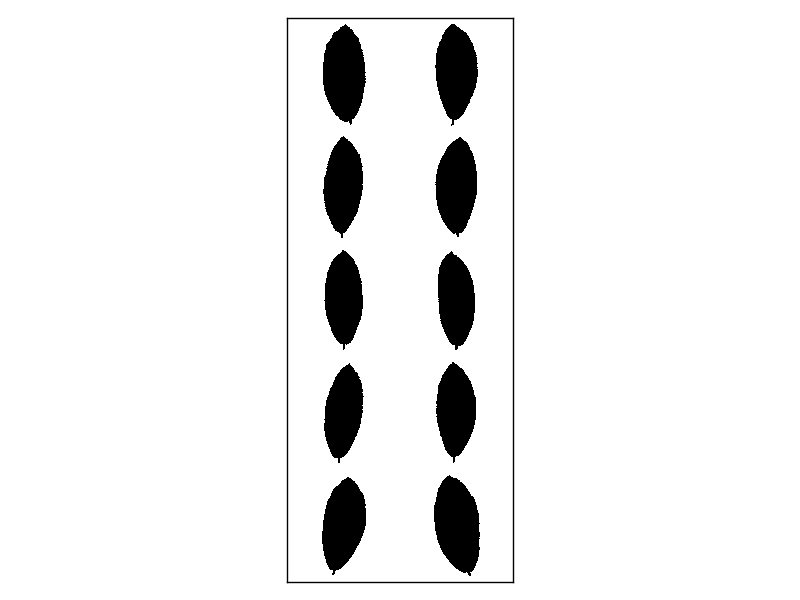
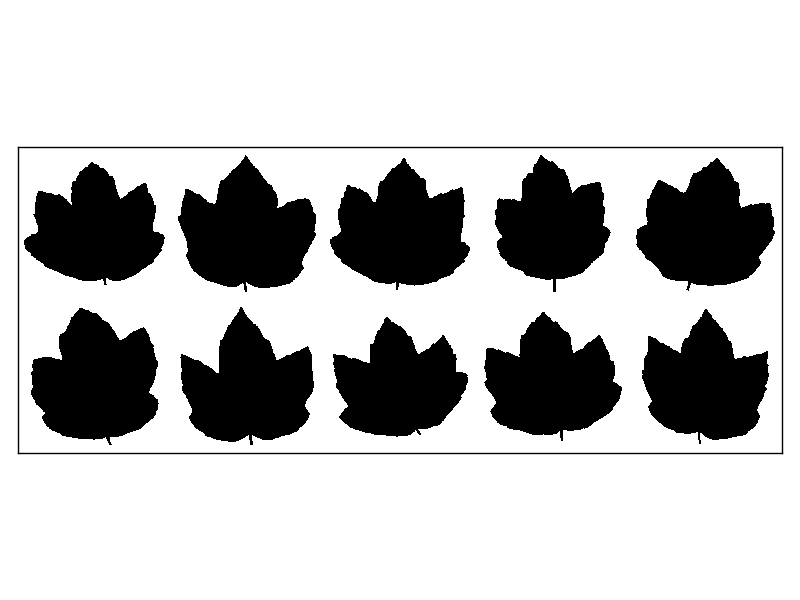
Changed orientation of images

Changed region(s): [[0.0, 0.03, 1.0, 0.99]]

diff --git a/LeafClassification/leaf_class.py b/LeafClassification/leaf_class.py
@@ -308,7 +308,7 @@ train_mod_list = load_image_data(train_ids)
 print train_mod_list.shape
 count = 0
 for j in range(len(y)):
-	if y[j] == 54:
+	if y[j] == 78:
 		print j
 		count += 1
 		if count < 6:
@@ -317,16 +317,16 @@ for j in range(len(y)):
 	
 			else:
 				temp = train_mod_list[j,:,:,0]
-				pics = np.concatenate((pics, temp), axis = 0)
+				pics = np.concatenate((pics, temp), axis = 1)
 		else:
 			if (count == 6):
 				pics2 = train_mod_list[j,:,:,0]
 	
 			else:
 				temp = train_mod_list[j,:,:,0]
-				pics2 = np.concatenate((pics2, temp), axis = 0)
+				pics2 = np.concatenate((pics2, temp), axis = 1)
 
-al = np.concatenate((pics, pics2), axis = 1)
+al = np.concatenate((pics, pics2), axis = 0)
 
 d = plt.figure(1)
 plt.imshow(al, cmap = 'binary', interpolation = 'none')
